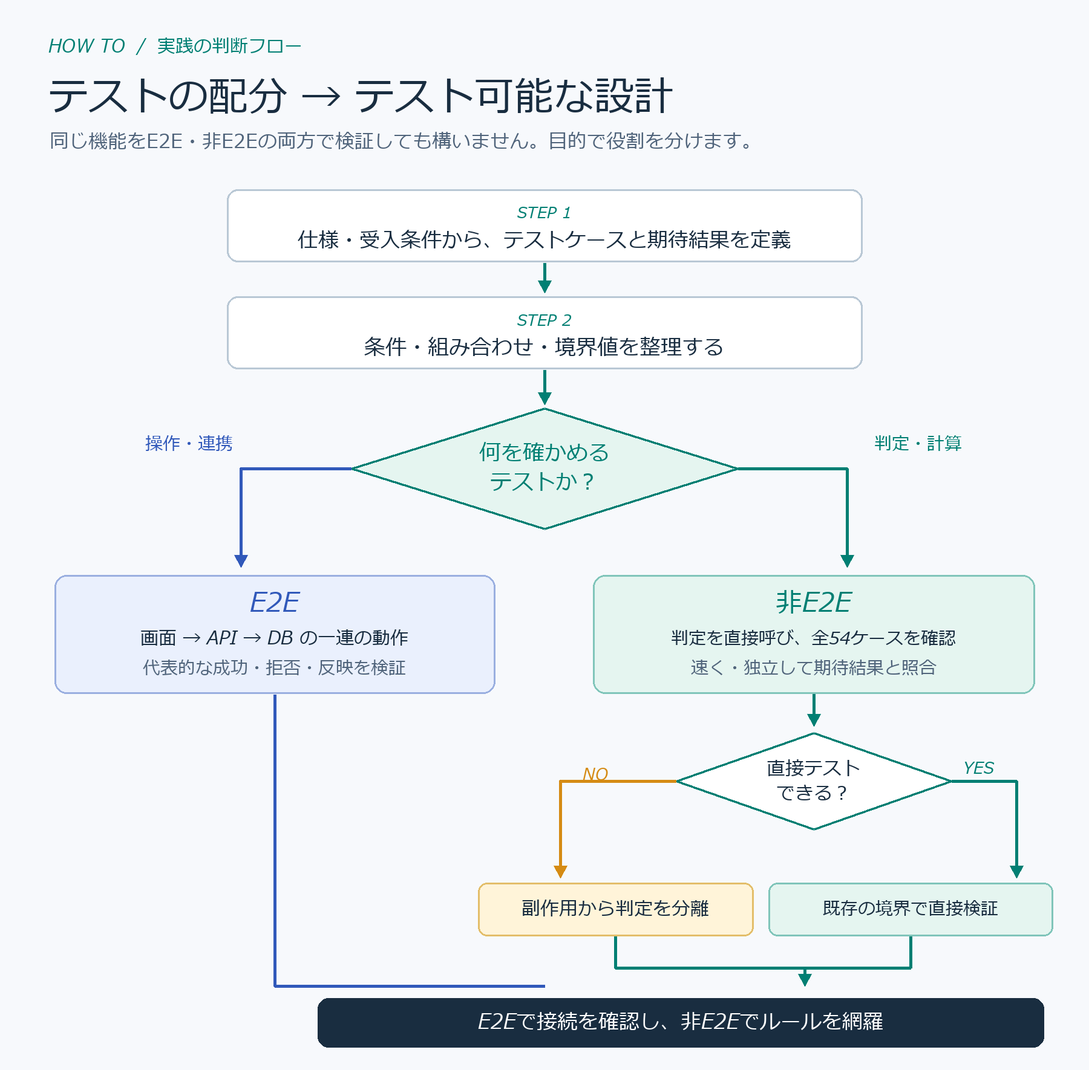
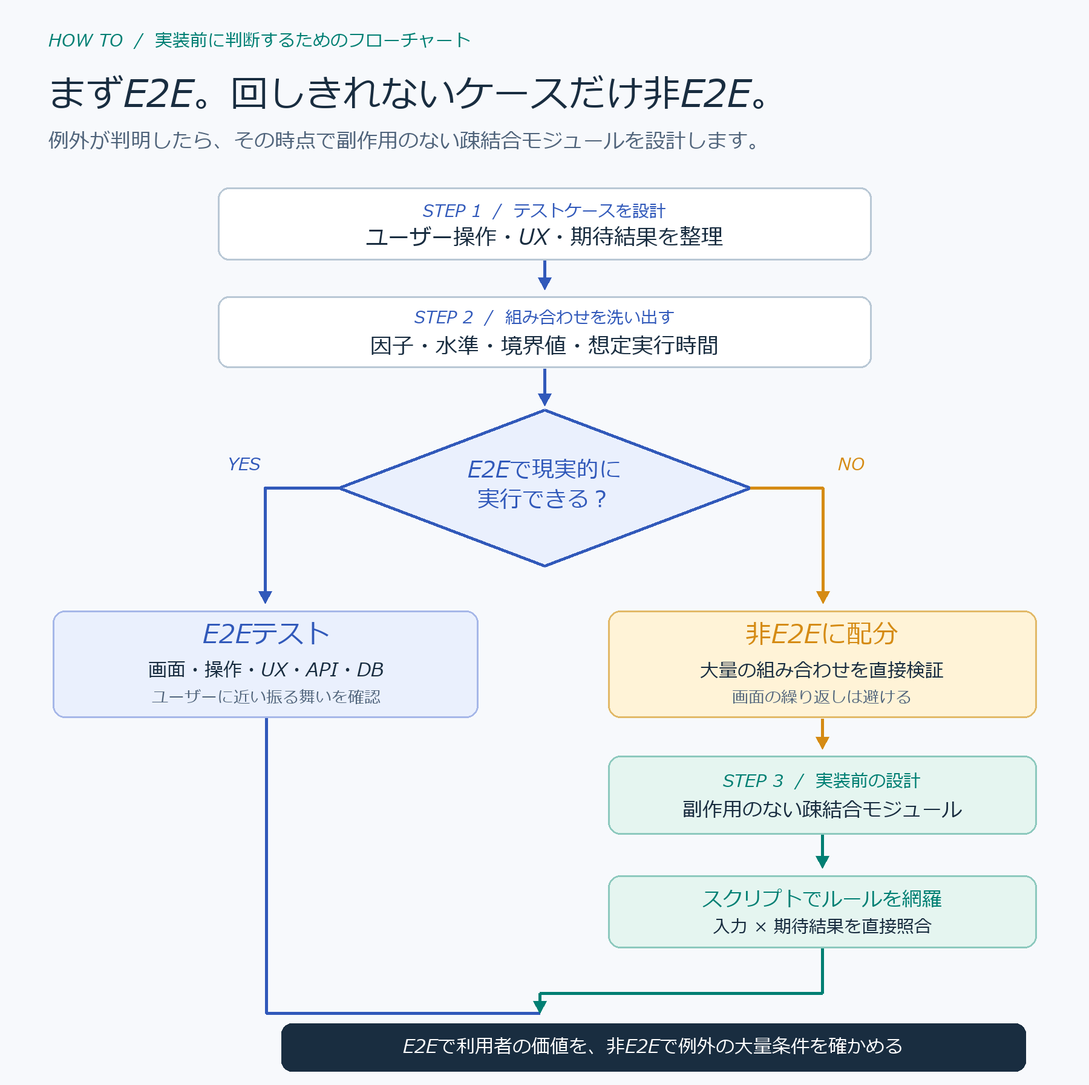
Make E2E the default and reserve script tests for large combinations

diff --git a/scripts/build-ai-era-test-diagrams.py b/scripts/build-ai-era-test-diagrams.py
@@ -50,102 +50,88 @@ def save(im,name):
     im.save(OUT/name,optimize=True)
     print(str(OUT/name),im.size)
 
-# 1) Eye-catching opening: testing allocation creates a testable boundary.
-im,d=canvas(1800,1100)
-txt(d,(75,55),"THE IDEA  /  テスト設計からアーキテクチャを決める",28,TEAL,True)
-txt(d,(75,115),"E2Eを増やす前に、テストケースを決める。",65,INK,True)
-txt(d,(77,214),"54通りの判定を「どこで確かめるか」が、モジュールの境界を決めます。",36,SUB)
+# 1) E2E first. Non-E2E is for high-volume combinations that cannot run economically in E2E.
+im,d=canvas(1800,1200)
+txt(d,(74,50),"THE IDEA  /  ユーザーに近いテストを厚くします",29,BLUE,True)
+txt(d,(74,120),"原則はE2E。ユーザーに最も近いからです。",63,INK,True)
+txt(d,(78,214),"ただし大量の組み合わせだけは、非画面のスクリプトで検証します。",36,SUB)
+rect(d,(80,308,1720,442),WHITE,LINE,21)
+center(d,900,346,"実装前に決める",27,BLUE,True)
+center(d,900,400,"ユーザー操作・UX・受入条件  →  テストケース・期待結果・組み合わせ",38,INK,True)
+down(d,900,443,510,BLUE,6)
 
-rect(d,(75,315,672,870),WHITE,LINE,22)
-rect(d,(725,315,1725,870),WHITE,TEAL,22,4)
-txt(d,(116,342),"E2Eだけを増やすと…",43,RED,True)
-txt(d,(760,342),"提案：テストケースを先に配分",43,TEAL,True)
-for i,(t,sub) in enumerate([
-    ("仕様から実装","コード中心に作り始める"),
-    ("画面から54条件を確認","セットアップが何度も必要"),
-    ("ルールの問題が埋もれる","失敗原因を切り分けづらい")]):
-    y=432+i*140
-    rect(d,(115,y,630,y+100),RED_L,"#F4CFC9",15,2)
-    txt(d,(141,y+10),t,35,INK,True)
-    txt(d,(141,y+60),sub,26,SUB)
-    if i!=2: down(d,374,y+101,y+132,RED,4)
+rect(d,(83,535,1167,1008),BLUE_L,"#9AB3EA",26,5)
+rect(d,(111,565,442,629),BLUE,BLUE,16)
+center(d,275,598,"基本方針",30,WHITE,True)
+txt(d,(132,663),"まず、E2Eでテストします。",48,BLUE,True)
+txt(d,(137,751),"画面操作　・　ユーザビリティ",34,INK,True)
+txt(d,(137,808),"API / DB / 画面への結果反映",34,INK,True)
+txt(d,(137,908),"実行可能なケースは、E2Eで確認",32,BLUE,True)
 
-rect(d,(765,424,1680,520),GRAY_L,"#CBD5DF",15)
-center(d,1222,469,"① 仕様・受入条件から、期待結果つきのケースを作る",34,INK,True)
-down(d,1222,522,558,TEAL)
-rect(d,(765,565,1680,653),TEAL_L,"#8ACCC0",15)
-center(d,1222,609,"② 3 × 3 × 3 × 2 ＝ 54ケースを確定",40,TEAL,True)
-line(d,[(1222,656),(1222,690),(1005,690),(1005,714)],TEAL,4)
-line(d,[(1222,690),(1470,690),(1470,714)],TEAL,4)
-rect(d,(765,720,1205,794),BLUE_L,"#A8BCE9",15)
-center(d,985,755,"E2E：代表的な操作",32,BLUE,True)
-rect(d,(1250,720,1680,794),TEAL_L,"#8ACCC0",15)
-center(d,1465,755,"非E2E：条件の全網羅",30,TEAL,True)
-line(d,[(985,795),(985,814),(1222,814)],TEAL,4)
-line(d,[(1465,795),(1465,814),(1222,814)],TEAL,4)
-down(d,1222,814,854,TEAL)
-rect(d,(75,912,1725,1037),INK,INK,22)
-center(d,900,957,"③ 非E2Eで直接検証できる「テスト可能なモジュール」を設計",41,WHITE,True)
-center(d,900,1010,"E2Eはシステムの接続を、非E2Eは判定ルールの組み合わせを確認",29,"#DAEEF0")
+line(d,[(1169,760),(1221,760)],AMBER,6)
+right(d,1221,760,1260,AMBER,6)
+rect(d,(1285,536,1718,1008),WHITE,AMBER,26,5)
+center(d,1500,595,"例外",36,AMBER,True)
+center(d,1500,662,"画面では回せない",30,INK,True)
+center(d,1500,710,"大量パターン",34,INK,True)
+rect(d,(1310,777,1690,850),TEAL_L,"#8ACCC0",14)
+center(d,1500,812,"非E2Eのスクリプト",30,TEAL,True)
+down(d,1500,851,894,TEAL)
+center(d,1500,938,"副作用なし・疎結合",31,TEAL,True)
+center(d,1500,976,"実装前に設計する",27,SUB)
+
+rect(d,(80,1060,1720,1156),INK,INK,21)
+center(d,900,1108,"E2Eを主役にするために、テストケースからモジュールを設計する。",42,WHITE,True)
 save(im,"hero.png")
 
-# 2) Flowchart: practical decisions and testable-module feedback.
-im,d=canvas(1800,1770)
-txt(d,(80,55),"HOW TO  /  実践の判断フロー",30,TEAL,True)
-txt(d,(80,113),"テストの配分 → テスト可能な設計",66,INK,True)
-txt(d,(82,211),"同じ機能をE2E・非E2Eの両方で検証しても構いません。目的で役割を分けます。",32,SUB)
+# 2) Practical flow: E2E default, exception based on feasibility, then design before coding.
+im,d=canvas(1800,1795)
+txt(d,(80,46),"HOW TO  /  実装前に判断するためのフローチャート",29,TEAL,True)
+txt(d,(80,111),"まずE2E。回しきれないケースだけ非E2E。",62,INK,True)
+txt(d,(80,208),"例外が判明したら、その時点で副作用のない疎結合モジュールを設計します。",34,SUB)
 
-rect(d,(375,313,1425,433),WHITE,LINE,18)
-center(d,900,353,"STEP 1",26,TEAL,True)
-center(d,900,398,"仕様・受入条件から、テストケースと期待結果を定義",34,INK,True)
-down(d,900,435,484,TEAL)
-rect(d,(375,490,1425,610),WHITE,LINE,18)
-center(d,900,531,"STEP 2",26,TEAL,True)
-center(d,900,576,"条件・組み合わせ・境界値を整理する",35,INK,True)
-down(d,900,612,669,TEAL)
-# branching question diamond
-d.polygon([(900,675),(1220,775),(900,875),(580,775)],fill=TEAL_L)
-line(d,[(900,675),(1220,775),(900,875),(580,775),(900,675)],TEAL,4)
-center(d,900,750,"何を確かめる",36,TEAL,True)
-center(d,900,798,"テストか？",36,TEAL,True)
-line(d,[(580,775),(398,775),(398,911)],BLUE,5)
-down(d,398,909,938,BLUE)
-line(d,[(1220,775),(1400,775),(1400,911)],TEAL,5)
-down(d,1400,909,938,TEAL)
-center(d,313,735,"操作・連携",29,BLUE,True)
-center(d,1518,735,"判定・計算",29,TEAL,True)
+rect(d,(360,310,1440,430),WHITE,LINE,18)
+center(d,900,350,"STEP 1  /  テストケースを設計",28,BLUE,True)
+center(d,900,393,"ユーザー操作・UX・期待結果を整理",36,INK,True)
+down(d,900,431,479,BLUE)
+rect(d,(360,490,1440,608),WHITE,LINE,18)
+center(d,900,526,"STEP 2  /  組み合わせを洗い出す",28,BLUE,True)
+center(d,900,573,"因子・水準・境界値・想定実行時間",36,INK,True)
+down(d,900,610,671,BLUE)
 
-rect(d,(90,951,818,1147),BLUE_L,"#9AAFE0",20)
-center(d,454,998,"E2E",44,BLUE,True)
-center(d,454,1057,"画面 → API → DB の一連の動作",30,INK,True)
-center(d,454,1106,"代表的な成功・拒否・反映を検証",29,SUB)
-rect(d,(980,951,1710,1147),TEAL_L,"#80C5BA",20)
-center(d,1345,998,"非E2E",44,TEAL,True)
-center(d,1345,1057,"判定を直接呼び、全54ケースを確認",29,INK,True)
-center(d,1345,1106,"速く・独立して期待結果と照合",29,SUB)
-down(d,1345,1148,1201,TEAL)
+d.polygon([(900,678),(1240,807),(900,936),(560,807)],fill=BLUE_L)
+line(d,[(900,678),(1240,807),(900,936),(560,807),(900,678)],BLUE,5)
+center(d,900,778,"E2Eで現実的に",37,BLUE,True)
+center(d,900,827,"実行できる？",37,BLUE,True)
 
-d.polygon([(1345,1212),(1573,1292),(1345,1372),(1117,1292)],fill=WHITE)
-line(d,[(1345,1212),(1573,1292),(1345,1372),(1117,1292),(1345,1212)],TEAL,4)
-center(d,1345,1272,"直接テスト",31,INK,True)
-center(d,1345,1313,"できる？",31,INK,True)
-line(d,[(1117,1292),(926,1292),(926,1426)],AMBER,5)
-down(d,926,1424,1452,AMBER)
-txt(d,(963,1261),"NO",28,AMBER,True)
-line(d,[(1573,1292),(1680,1292),(1680,1426)],TEAL,5)
-down(d,1680,1424,1452,TEAL)
-txt(d,(1592,1251),"YES",27,TEAL,True)
-rect(d,(790,1460,1245,1548),"#FFF4D9","#E3BE6A",15)
-center(d,1017,1504,"副作用から判定を分離",31,INK,True)
-rect(d,(1270,1460,1740,1548),TEAL_L,"#80C5BA",15)
-center(d,1505,1504,"既存の境界で直接検証",29,INK,True)
-# link E2E and modules into verification step
-line(d,[(454,1149),(454,1631),(900,1631)],BLUE,5)
-line(d,[(1017,1549),(1017,1601),(1330,1601)],TEAL,5)
-line(d,[(1505,1549),(1505,1601),(1330,1601)],TEAL,5)
-down(d,1330,1602,1631,TEAL)
-rect(d,(525,1651,1725,1732),INK,INK,18)
-center(d,1125,1691,"E2Eで接続を確認し、非E2Eでルールを網羅",34,WHITE,True)
+line(d,[(560,807),(438,807),(438,977)],BLUE,5)
+down(d,438,974,998,BLUE)
+center(d,403,769,"YES",29,BLUE,True)
+line(d,[(1240,807),(1360,807),(1360,977)],AMBER,5)
+down(d,1360,974,998,AMBER)
+center(d,1407,769,"NO",29,AMBER,True)
+
+rect(d,(87,1010,790,1187),BLUE_L,"#A6B7E8",20)
+center(d,440,1050,"E2Eテスト",43,BLUE,True)
+center(d,440,1109,"画面・操作・UX・API・DB",31,INK,True)
+center(d,440,1154,"ユーザーに近い振る舞いを確認",27,SUB)
+rect(d,(1005,1010,1713,1187),"#FFF3D7","#E2B968",20)
+center(d,1359,1050,"非E2Eに配分",43,AMBER,True)
+center(d,1359,1110,"大量の組み合わせを直接検証",31,INK,True)
+center(d,1359,1154,"画面の繰り返しは避ける",27,SUB)
+down(d,1359,1189,1239,AMBER)
+rect(d,(1005,1250,1713,1380),TEAL_L,"#8DC9BE",20)
+center(d,1359,1293,"STEP 3  /  実装前の設計",29,TEAL,True)
+center(d,1359,1341,"副作用のない疎結合モジュール",33,INK,True)
+down(d,1359,1381,1436,TEAL)
+rect(d,(1005,1448,1713,1568),TEAL_L,"#8DC9BE",20)
+center(d,1359,1489,"スクリプトでルールを網羅",33,TEAL,True)
+center(d,1359,1534,"入力 × 期待結果を直接照合",29,INK)
+line(d,[(440,1188),(440,1676),(892,1676)],BLUE,5)
+line(d,[(1359,1569),(1359,1643),(892,1643)],TEAL,5)
+down(d,892,1643,1676,TEAL)
+rect(d,(465,1693,1695,1772),INK,INK,17)
+center(d,1080,1732,"E2Eで利用者の価値を、非E2Eで例外の大量条件を確かめる",31,WHITE,True)
 save(im,"workflow.png")
 
 # 3) Case map: every cell corresponds to 1 exact combination.

diff --git a/articles/ai-era-e2e-module-test-design.md b/articles/ai-era-e2e-module-test-design.md
@@ -1,47 +1,67 @@
 ---
-title: "AI開発、E2Eを厚くするだけで十分ですか？ テストケースから考えるモジュール設計"
+title: "E2Eテストを厚くします。だからテストケースからモジュールを設計します"
 emoji: "🧪"
 type: "tech"
 topics: ["testing", "e2e", "architecture", "ai", "typescript"]
 published: false
 ---
 
-AIを使った開発では、「E2Eテストを厚くする」という考え方を見かけます。画面から操作し、APIやDBまで含めて確認することには、もちろん価値があります。
+AI時代の開発では、**E2Eテストを厚くします。ユーザーに最も近いところで品質を確かめたいからです。**
 
-**しかし、条件の組み合わせが54通りある判定まで、54回の画面操作でテストする必要があるのでしょうか。**
+画面の使いやすさも確かめます。処理結果が正しくても、迷わず操作できなければユーザーへの価値にならないからです。
 
-私が提案したいのは、テストを増やすことではなく、**テストから設計を考える**ことです。
+ただし、すべてをE2Eでテストするわけではありません。膨大な条件の組み合わせを画面から繰り返すと、実行時間やデータ準備の負担が現実的でなくなるからです。
 
-**先にテストケースを決め、E2Eと非E2Eに配分し、テスト可能なモジュールを設計します。**
+**E2Eでは回しきれない大量パターンだけ、非画面のスクリプトベースで直接テストします。** そのために、副作用のない、疎結合なモジュールを設計します。
 
-![テストケースを先に決め、E2Eと非E2Eに配分してからテスト可能なモジュールを設計する考え方。E2Eだけを増やす場合との比較](/images/ai-era-e2e-module-test-design/hero.png)
+そして、**その設計は実装前に行います。** 先にテストケースを洗い出し、組み合わせ数とE2Eの実行負荷を見積もらなければ、どの処理を独立したモジュールにすべきか判断できないからです。
 
-この記事では、タスク管理システムの「操作権限」を例に、この考え方を具体的なテストケースとコードに落とし込みます。
+![E2Eを原則とし、実行困難な大量ケースだけを非E2Eに配分して、実装前に疎結合なモジュール境界を決める全体像](/images/ai-era-e2e-module-test-design/hero.png)
 
-## 1. 実践の流れ：テストの配分から設計へ
+この記事では、タスク管理システムの操作権限を例に、この考え方を具体的な設計・テストコードまで落とし込みます。
 
-最初に全体の判断フローを示します。
+## 1. まずE2Eで考えます。ユーザーに近いからです
 
-![仕様からテストケースを定義し、E2Eと非E2Eに配分。非E2Eの対象を直接テストできるか判断し、必要なら副作用から判定を分離するフローチャート](/images/ai-era-e2e-module-test-design/workflow.png)
+E2Eを基本にする理由は、テストが「通った」という事実ではなく、**ユーザーが期待どおりに使えること**を確かめたいからです。
 
-進め方は次のとおりです。
+たとえば、タスクの編集なら以下を確認します。
 
-1. **テストケースを先に決める**：仕様と受入条件から入力条件・組み合わせ・期待結果を定義します。
-2. **検証目的で配分する**：画面からの操作・システム間の接続はE2E、組み合わせが多い判定・計算は非E2Eで確かめます。
-3. **テスト可能なモジュールを設計する**：非E2Eのケースを直接検証できない場合は、判定処理を副作用から分離するなど、適切なモジュール境界を設けます。
-4. **両者の役割を確認する**：非E2Eでルールの全条件を検証し、E2Eでそのルールが実際の操作から正しく呼び出されることを確認します。
+- 一覧から目的のタスクを見つけられるか。
+- 編集画面で、何を入力すればよいか分かるか。
+- 保存後に内容が反映され、ユーザーに結果が伝わるか。
+- 権限がなく編集できない場合、適切な表示や案内があるか。
 
-ここで重要なのは、**E2Eと非E2Eは二者択一ではない**という点です。ある条件を非E2Eで検証したうえで、その代表ケースをE2Eでも確認して構いません。
+これらは判定関数のテストだけでは分かりません。画面、操作、API、DBを通した振る舞いに加え、ユーザビリティを見る必要があるからです。
 
-## 2. 具体例：タスクの操作権限を54ケースにする
+なお、ユーザビリティの確認には、人が実際に操作して評価する方法も含めます。**E2Eを厚くすることは、自動化率だけを高めることではありません。**
 
-タスク管理システムに次の仕様があるとします。
+## 2. 実装前にテストケースを設計します。配分を判断したいからです
+
+基本方針がE2Eでも、実装してから「ケース数が多すぎる」と気付いては遅くなります。ルールがDB操作や外部API呼び出しと強く結合していると、後から直接テストするための改修が必要になるからです。
+
+そのため、次のフローを**実装前**に実行します。
+
+![E2Eを原則にテストケースを検討し、時間内に実行できるならE2E、実行困難な大量組み合わせなら非E2Eへ配分して実装前にモジュール設計する実践フローチャート](/images/ai-era-e2e-module-test-design/workflow.png)
+
+重要なのは、**最初からE2Eと非E2Eを同格に振り分けない**ことです。まずE2Eで検証したいと考え、それが現実的かを判断します。
+
+1. 仕様・画面・ユーザー操作をもとに、テストケースと期待結果を決めます。
+2. 因子と水準を洗い出し、組み合わせ数を把握します。
+3. **原則はE2Eです。** 想定する実行頻度・時間・データ準備を踏まえ、現実的に回せるか判断します。
+4. E2Eで回しきれない大量パターンは、スクリプトによる直接検証に移します。
+5. その対象を、実装前に副作用のない疎結合モジュールとして設計します。E2Eでは代表的な連携・操作も確認します。
+
+## 3. 大量パターンはスクリプトで確認します。画面操作を繰り返す必要がないからです
+
+例として、ログイン済みユーザーによるタスクの閲覧・編集・削除を考えます。
+
+仕様は次のとおりです。
 
 - **閲覧**：管理者・一般ユーザー・閲覧専用ユーザーのいずれも閲覧できます。
 - **編集**：管理者、または担当者本人の一般ユーザーが編集できます。ただし、完了済みは編集できません。
 - **削除**：管理者だけが、未着手のタスクを削除できます。
 
-テストに必要な因子と水準を整理します。
+この仕様から、次の因子・水準を作ります。
 
 | 因子 | 水準 |
 |---|---|
@@ -50,43 +70,39 @@ AIを使った開発では、「E2Eテストを厚くする」という考え方
 | 状態 | 未着手／進行中／完了 |
 | 担当者本人 | はい／いいえ |
 
-これらの全組み合わせは、**3 × 3 × 3 × 2 = 54通り**です。
+組み合わせは **3 × 3 × 3 × 2 = 54通り**です。仕様から決めた期待結果は、許可26ケース、拒否28ケースになります。
 
-次の図は、仕様から期待結果を決めた全54ケースを省略せずに並べたものです。各マスが1ケースで、緑は許可、赤は拒否を示します。
+![操作、権限、状態、担当者本人かどうかの54組み合わせについて許可・拒否の期待結果を示すマトリクス](/images/ai-era-e2e-module-test-design/case-matrix.png)
 
-![タスク操作権限のテストケース54通りの期待結果マトリクス。管理者、一般ユーザー、閲覧専用、担当者本人か、操作、タスク状態ごとに許可と拒否を表示](/images/ai-era-e2e-module-test-design/case-matrix.png)
+※54通りという数字は仕組みを説明するための例です。この程度ならE2Eで十分回せる環境もあります。非E2Eに移すかどうかは件数だけで決めず、**データ準備や実行頻度を含めたコスト**で判断します。実際の業務では、この因子が増えて数千〜数万通りになることもあります。
 
-結果は、許可26ケース・拒否28ケースです。
+E2Eで確認したいのは、たとえば次のような一連の操作です。
 
-ここで大切なのは、**期待結果は実装コードから逆算しない**ことです。たとえば「一般ユーザーは完了済みの自分のタスクを編集できない」は、実装前に仕様から決められる期待結果です。
+| E2Eで確かめること | 例 |
+|---|---|
+| ユーザーが正しく操作できること | 一般ユーザーが自分のタスクを編集・保存できる |
+| 画面と結果が分かりやすいこと | 保存完了や権限エラーが適切に表示される |
+| システム全体がつながっていること | 保存後にDBへ反映され、再表示でも確認できる |
 
-## 3. 54ケースをE2Eと非E2Eに配分する
+一方、役割・状態・操作・担当者の**組み合わせがすべて正しいか**は、画面なしで直接検証できます。大量の入力と期待結果を比較するほうが、繰り返し実行しやすいからです。
 
-54ケースをすべてE2Eにするのではなく、何を検証したいかで役割を分けます。
+## 4. 疎結合なモジュールを先に設計します。スクリプトから直接検証したいからです
 
-| 検証対象 | テスト方法 | 具体例 |
-|---|---|---|
-| UI・API・DBがつながり、更新が反映されるか | **E2E** | 一般ユーザーが自分の進行中タスクを編集し、再表示して内容を確認 |
-| 禁止操作が画面から拒否されるか | **E2E** | 一般ユーザーが他人のタスクを編集できないことを確認 |
-| 削除操作がDBに反映されるか | **E2E** | 管理者が未着手タスクを削除し、一覧から消えたことを確認 |
-| 役割・状態・担当者・操作のすべての組み合わせで判定が正しいか | **非E2E** | **54通りを直接入力して期待結果と比較** |
+ここが重要です。
 
-E2Eは、画面・API・DBを通る**一連の振る舞い**を確認するのに向いています。一方、54通りのルール確認では、毎回ログインやデータ登録を行うよりも、判定に入力を直接渡せるほうが簡潔です。
+大量パターンを非E2Eで確認すると決めても、対象の判定処理がDBや認証、外部サービスに依存していれば、単純には検証できません。
 
-なお、上記のE2Eは代表例です。必要なケース数は、業務上の重要性やUI・連携のリスクを考慮して決めます。**「E2Eを3件だけ書けば十分」という主張ではありません。**
+そのため、**条件だけを入力すれば、判定結果だけが返るモジュール**を実装前に設計します。この例では、`TaskService` の中から権限判定を切り出し、`PermissionPolicy` にします。
 
-## 4. 配分結果から、テスト可能なモジュールを設計する
+![TaskServiceの中に権限判定を埋め込む構成と、PermissionPolicyを副作用のない独立したモジュールに分離する構成の比較](/images/ai-era-e2e-module-test-design/architecture.png)
 
-非E2Eで54ケースを直接検証するには、権限判定の呼び出し口が必要です。
+このモジュールには、次の性質を持たせます。
 
-そこで、権限判定を `TaskService` のDB操作などから切り離し、**本番の処理からもテストからも同じように呼び出せる** `PermissionPolicy` を設計します。
+- **副作用がない**：DB更新・ファイル書き込み・外部API呼び出しをしません。
+- **疎結合である**：UIやDBの実装に依存せず、入力データだけで判定できます。
+- **決定的である**：同じ入力なら、同じ結果を返します。
 
-![権限判定をTaskService内部に置く設計と、PermissionPolicyとして独立させて直接テストできるようにする設計の比較](/images/ai-era-e2e-module-test-design/architecture.png)
-
-- **案A**：テストが `TaskService` の操作を経由します。判定だけを見たい場合でも、周辺処理の準備が必要になることがあります。
-- **案B**：判定を `PermissionPolicy` に分離します。多数の組み合わせを直接入力でき、判定結果だけを検証できます。
-
-この例では案Bを採用します。
+`PermissionPolicy` は、たとえば次のコードです。
 
 ```ts
 // permission-policy.ts
@@ -106,41 +122,39 @@ export function canOperate(x: Input): boolean {
 }
 ```
 
-この関数は入力を受けて判定を返すだけです。DBアクセスや画面操作などの副作用を持ちません。同じ入力に対して同じ結果を返すため、組み合わせを独立して検証しやすくなります。
-
-非E2Eテストでは、仕様から事前に定義した期待結果と比較します。
+テストから直接呼べます。
 
 ```ts
 import assert from 'node:assert/strict'
 import { canOperate } from './permission-policy.ts'
 
 const input = {
-  role: 'member', action: 'edit',
-  status: 'doing', isAssignee: true,
+  role: 'member',
+  action: 'edit',
+  status: 'doing',
+  isAssignee: true,
 } as const
 
 assert.equal(canOperate(input), true)
 assert.equal(canOperate({ ...input, isAssignee: false }), false)
 ```
 
-ここでは2ケースだけを抜粋しました。[54通りの実行可能なテストコード](https://github.com/tamutamu/zenn-articles/blob/main/examples/ai-era-e2e-module-test-design/permission-policy.test.mjs)では、期待結果を実装とは別の表で定義しています。
+これは2ケースの抜粋です。[54通りすべてを検証するテストコード](https://github.com/tamutamu/zenn-articles/blob/main/examples/ai-era-e2e-module-test-design/permission-policy.test.mjs)では、仕様から決めた期待結果を表にして実行しています。
 
-実際のタスク操作では、`TaskService` が認証済みユーザーの権限とDBから取得したタスク状態を `canOperate()` に渡し、許可された場合だけDBを更新します。**この接続が正しく機能するかどうかはE2Eで確認します。**
+もちろん、実際のタスク編集では認証情報やDBのタスク状態を`TaskService`が取得し、`canOperate()`へ渡します。判定の全組み合わせは直接テストし、**実際の画面から正しく呼ばれることはE2Eで確かめます。**
 
-## 5. 目指すのは「テストのために分割すること」ではありません
+ここでのポイントは、**テストのために実装後のコードを無理に分割するのではなく、テストケースを見て最初から検証しやすく設計すること**です。
 
-すべての関数を小さなモジュールに分解する必要はありません。判断の出発点は、あくまでテストケースです。
+## 5. E2Eを主役にします。ユーザーに価値を届けるためです
 
-- 大量の条件組み合わせを検証したいのに、副作用が邪魔になるなら、判定を直接検証できる境界を設けます。
-- 画面からの操作・DB反映・認証や連携を検証したいなら、E2Eを使います。
-- 既存のモジュールを直接テストできるなら、テストのためだけに新しいモジュールを作る必要はありません。
+提案しているのは「E2Eを減らしてユニットテストを増やそう」という話ではありません。
 
-つまり、テストケースを洗い出すことで、**独立して検証すべきルールがどこにあり、どのようなモジュール境界が適切か**が見えてきます。
+**基本はE2Eです。** ユーザーが実際に使う流れを厚く検証したいからです。
 
----
+**ただし、大量の組み合わせは非E2Eで確認します。** 画面操作を繰り返しても、ルールの期待結果は変わらないからです。
 
-AIによってテストコードを大量に書けるようになりました。しかし、大量に書くことと、正しい条件を効率よく検証することは別です。
+**だから実装前にテストケースを設計します。** どの組み合わせがE2Eで回せるかを判断し、非E2Eが必要な箇所は副作用のない疎結合モジュールとして設計しておきたいからです。
 
-**先にテストケースを決め、E2Eと非E2Eに配分し、テスト可能なモジュールを設計します。**
+> **E2Eを原則にする。大量パターンだけ非E2Eにする。その判断を先に行い、テスト可能なモジュールを設計する。**
 
-これが、E2Eを厚くするかどうかの議論を、実際の設計にまでつなげる方法だと考えています。
+AIによってコードを書く速度が上がった今こそ、**何を、どこで、どう確かめるか**を先に決めることに価値があると考えています。
